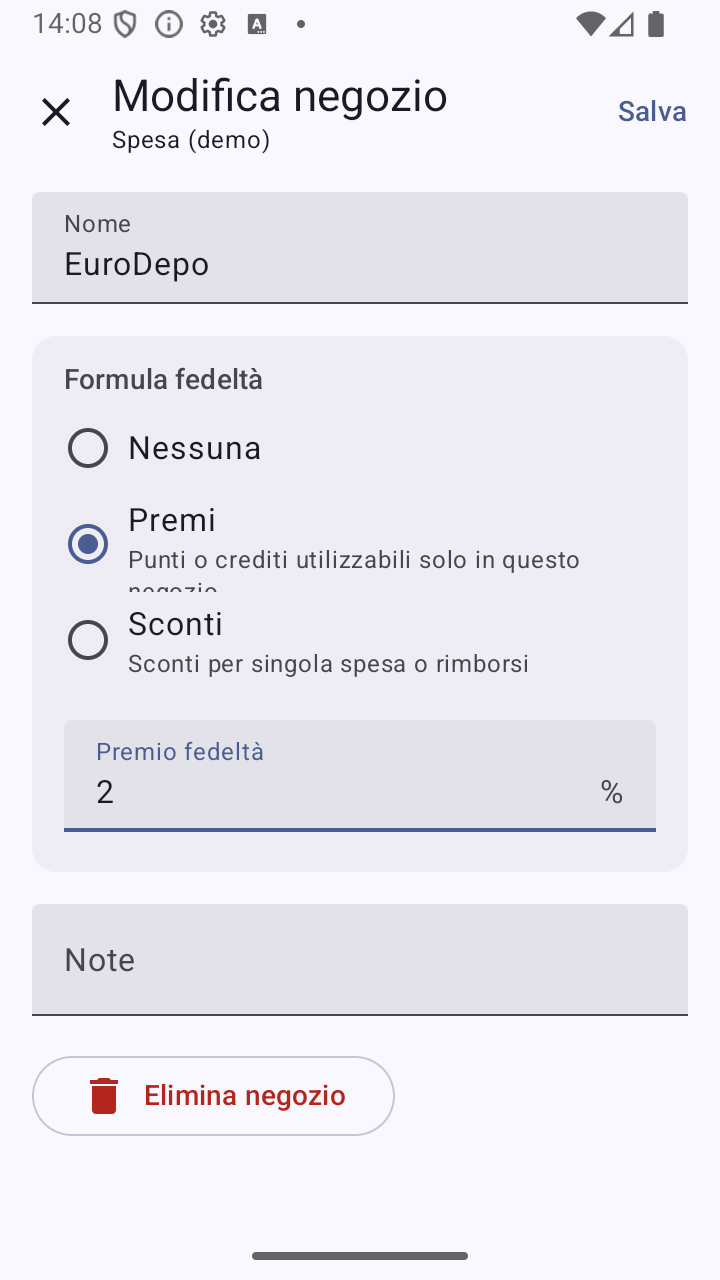
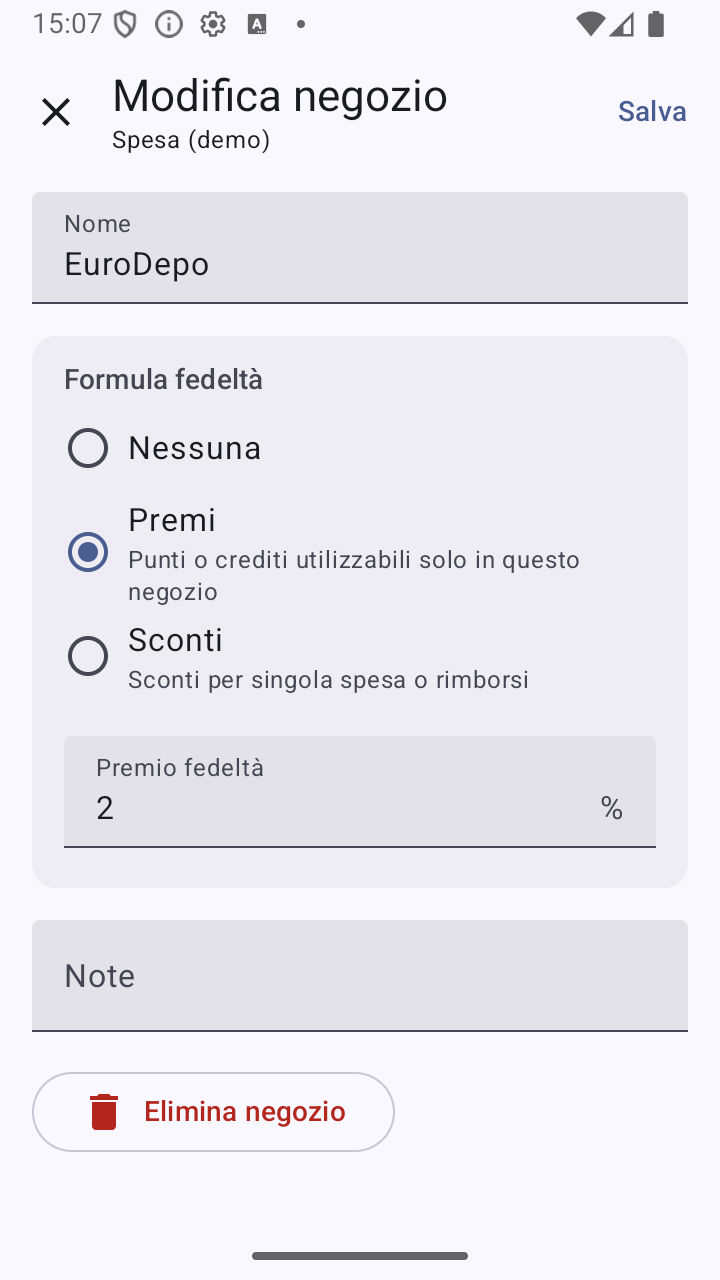
Improve long text handling in RadioButtonGroup

diff --git a/app/src/main/java/app/zornslemma/mypricelog/ui/components/RadioButtonGroup.kt b/app/src/main/java/app/zornslemma/mypricelog/ui/components/RadioButtonGroup.kt
@@ -5,6 +5,7 @@ import androidx.compose.foundation.layout.Column
 import androidx.compose.foundation.layout.Row
 import androidx.compose.foundation.layout.fillMaxWidth
 import androidx.compose.foundation.layout.height
+import androidx.compose.foundation.layout.heightIn
 import androidx.compose.foundation.layout.padding
 import androidx.compose.material3.MaterialTheme
 import androidx.compose.material3.RadioButton
@@ -46,10 +47,11 @@ fun <T, ID : Comparable<ID>> RadioButtonGroup(
                     Modifier.fillMaxWidth()
                         .then(clickableModifier)
                         .padding(horizontal = 8.dp)
-                        .height(
+                        .heightIn(
                             48.dp
                         ) // 40.dp is MD3 spec but we want extra space for our supporting text while
-                        // still having some spacing between items
+                        // still having some spacing between items. We use .heightIn() not .height()
+                        // so lines can wrap on smaller screens if necessary.
                         .semantics {
                             role = Role.RadioButton
                         }, // for TalkBack / screen readers, since this is clickable not the

diff --git a/TODO.md b/TODO.md
@@ -1,3 +1,1 @@
 - Switch metadata locale for spanish to es-ES and re-enable the Play Store metadata check? Or switch en-US to en and leave it off? I am currently inconsistent, using an irrelevant region code for one locale and not for the other.
-
-- On small phone screens in Italian, some text doesn't fit - this can be seen in the metadata screenshots. Can we tweak the code and/or text to improve this? On most actual devices this is unlikely to be a problem.
